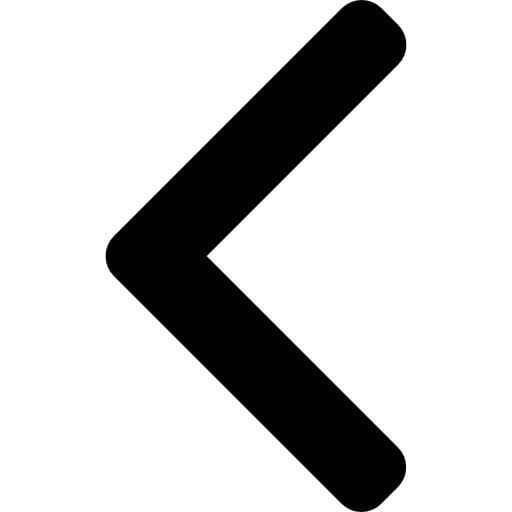
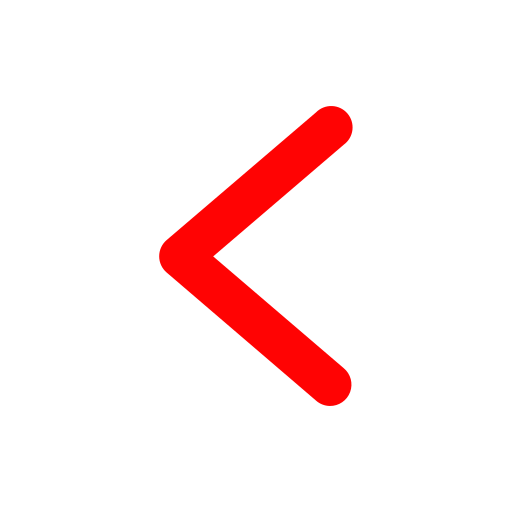
cambio de flechas y transparencia de imagen de fondo

Changed region(s): [[0.1875, 0.0, 0.8125, 1.0]]

diff --git a/Index.html b/Index.html
@@ -79,7 +79,7 @@
             <h2>Trabajamos con las mejores marcas de figuras de anime</h2>
             <div class="marcas-container">
                 <button id="prevButton">
-                    <img src="/imágenes/flecha izq.png" alt="anterior">
+                    <img src="/imágenes/flecha2 izq.png" alt="anterior">
                 </button>
                 <div class="marcas-logos">
                     <a href="#" title="Bandai">
@@ -99,7 +99,7 @@
                     </a>
                 </div>
                 <button id="nextButton">
-                    <img src="imágenes/flecha-correcta.png" alt="siguiente">
+                    <img src="imágenes/flecha2 der.png" alt="siguiente">
                 </button>
             </div>
         </section>

diff --git a/styles.css b/styles.css
@@ -1,5 +1,5 @@
 body {
-    font-family: Verdana, Geneva, Tahoma, sans-serif
+    font-family: Verdana, Geneva, Tahoma, sans-serif;
     color: #444;
     margin: 0;
     padding: 0;
@@ -268,7 +268,7 @@ nav ul li a:hover {
 }
 
 .marcas {
-    background-image: url(imágenes/adicional1.webp);
+    background-image: linear-gradient(rgba(156, 150, 150, 0.5), rgba(156, 150, 150, 0.5)), url(imágenes/adicional1.webp);
     background-color: #00000094;
     background-position: center;
     background-repeat: no-repeat;
